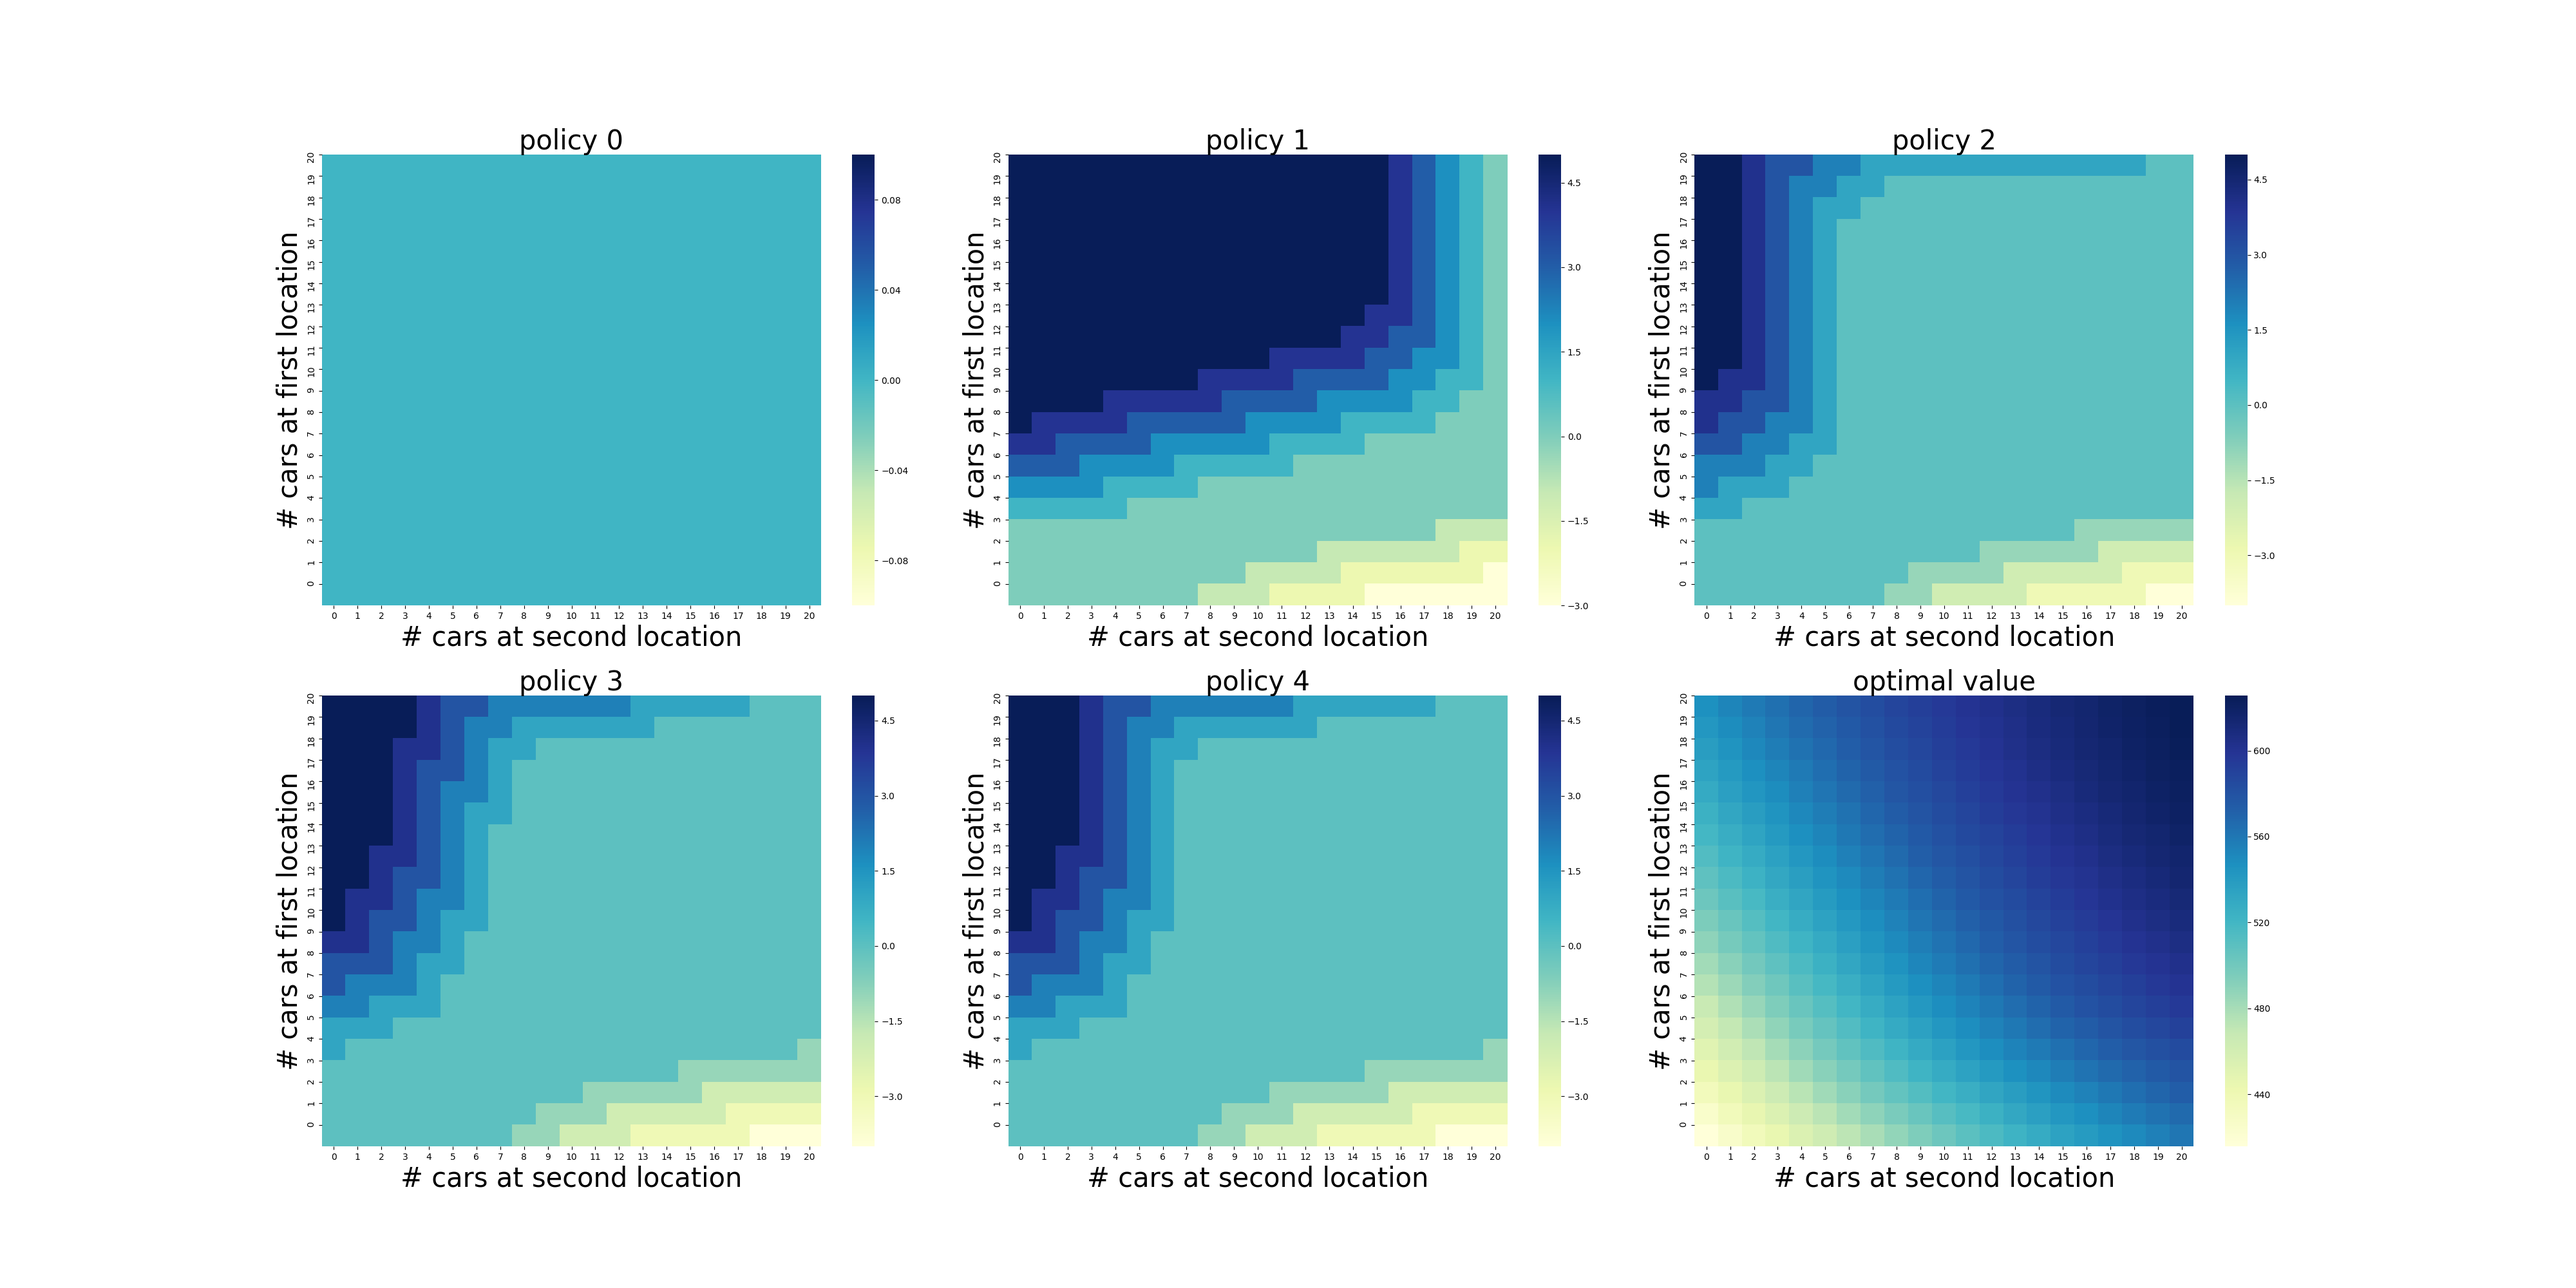
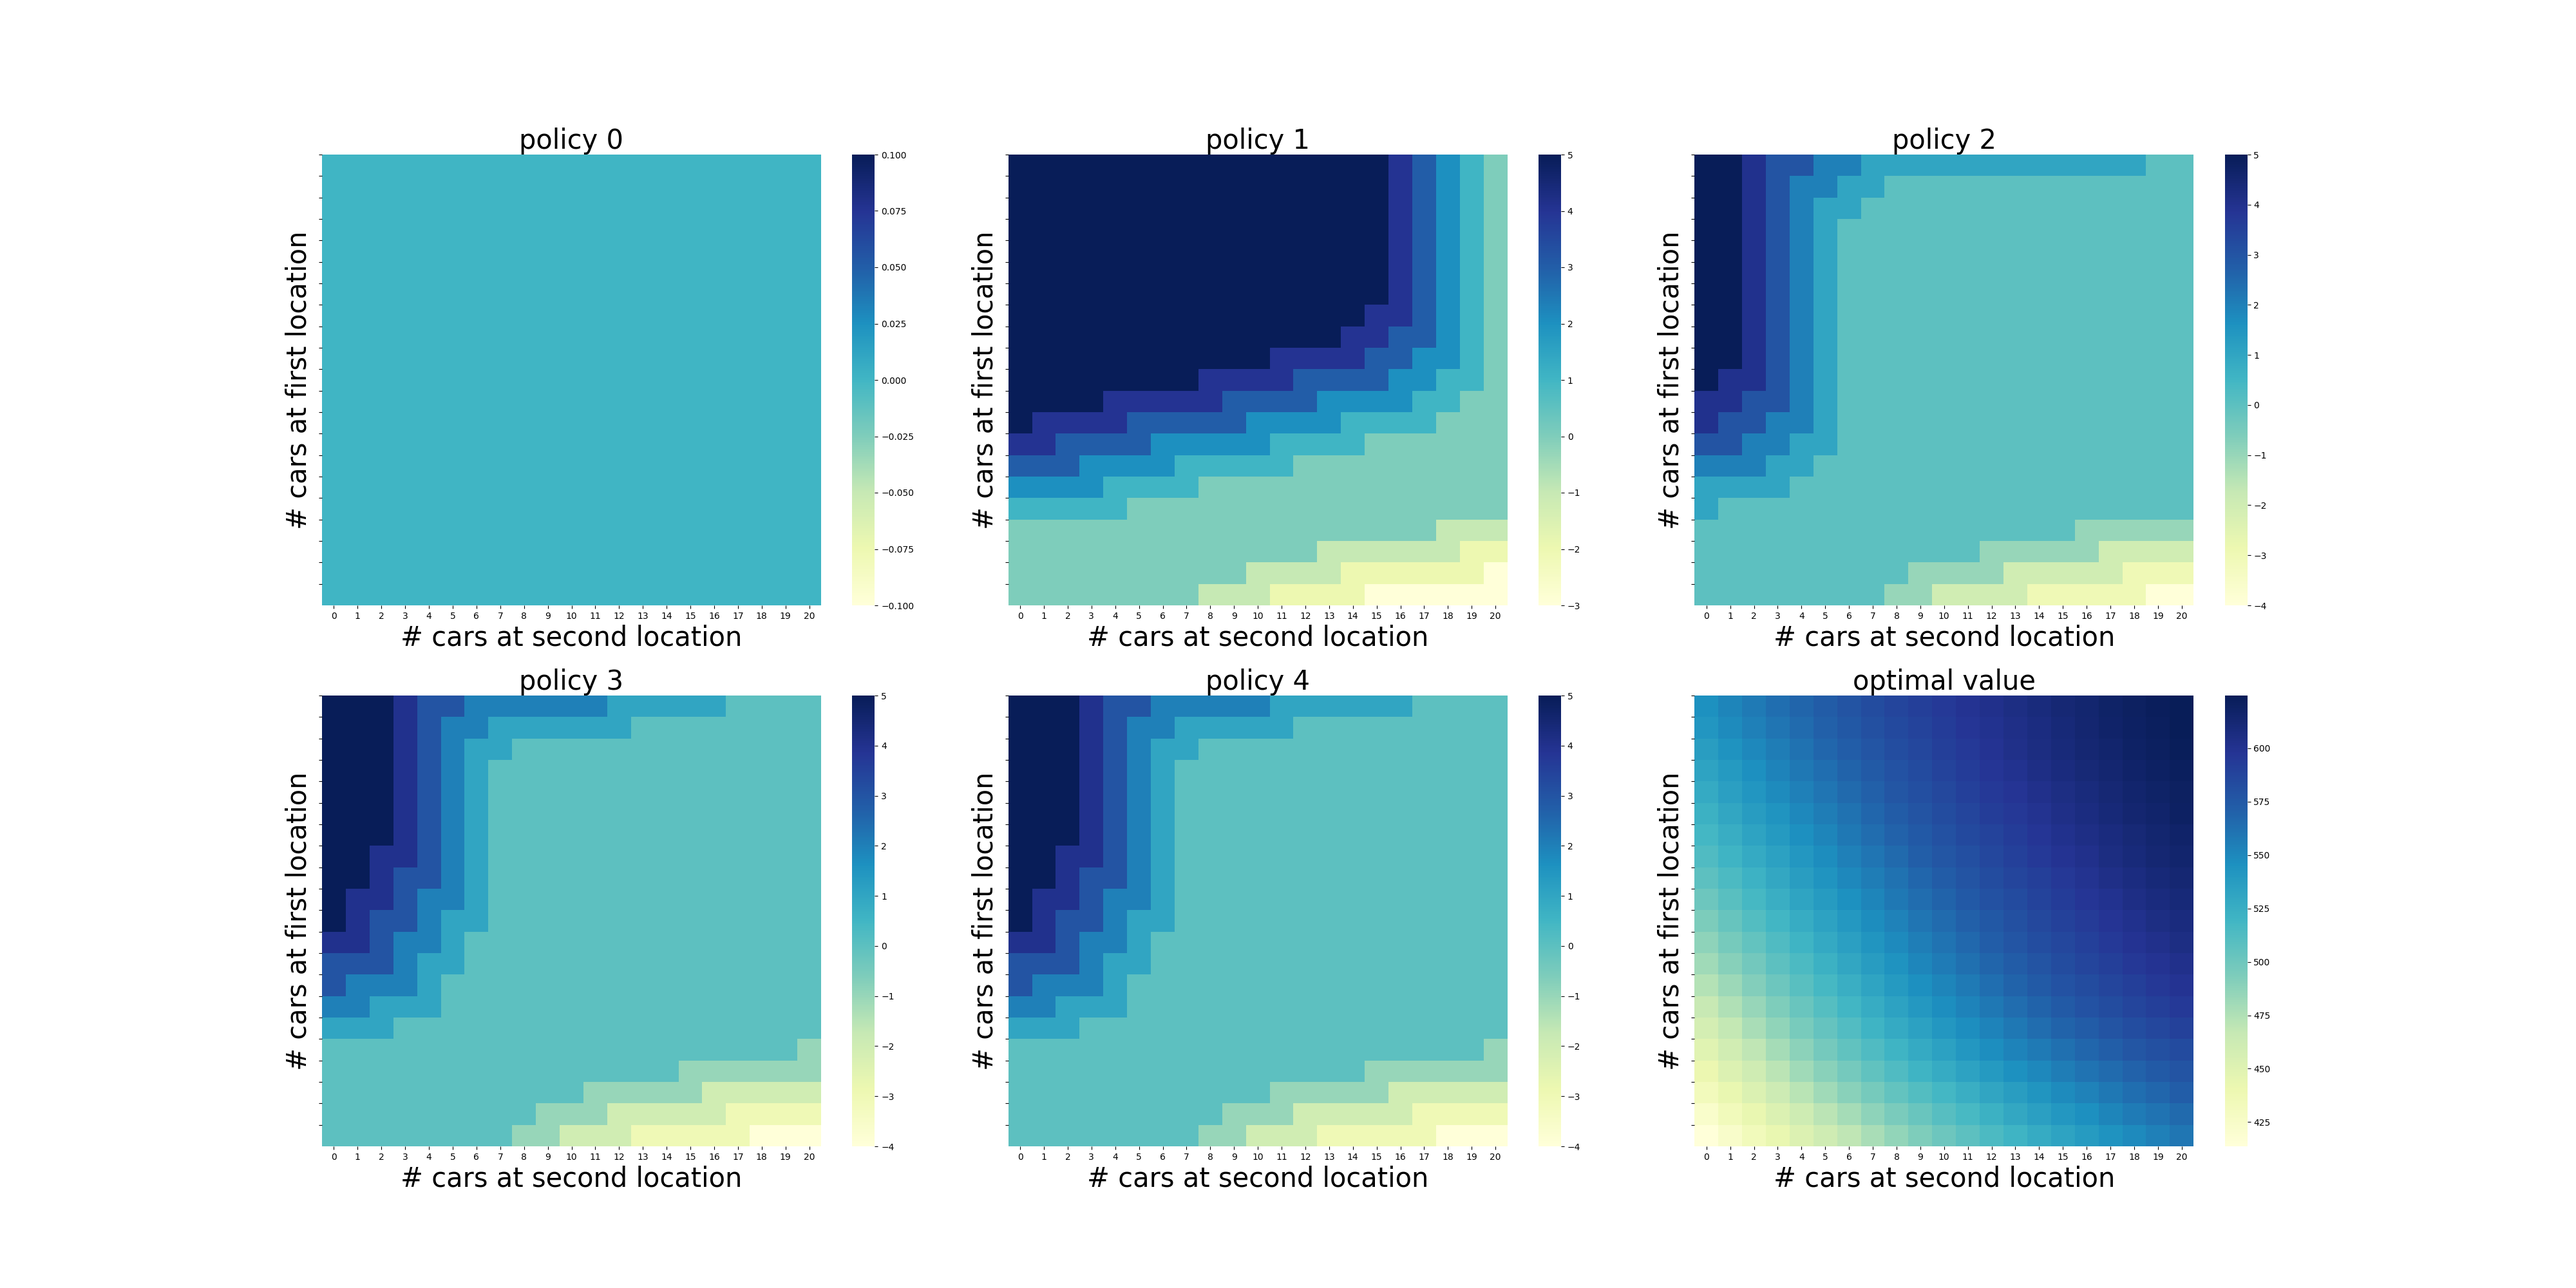
car rental complete

diff --git a/CH04/car_rental.py b/CH04/car_rental.py
@@ -29,7 +29,7 @@ class CarRental:
     def __init__(self, problem_modified=False, constant_return=False):
         """Initialize parameters"""
         # Problem settings
-        self.MAX_CARS = 10
+        self.MAX_CARS = 20
         self.MAX_MOVE_OF_CARS = 5
         self.RENTAL_REQUEST_FIRST = 3
         self.RENTAL_REQUEST_SECOND = 4
@@ -48,7 +48,7 @@ class CarRental:
         self.policy = np.zeros(self.value.shape, dtype=int)
         self.modified = problem_modified
         self.constant_return = constant_return
-        self.value_change_threshold = 1
+        self.value_change_threshold = 1e-4
 
     def expected_return(self, state, action, state_value):
         """Calculate expected return under specific state and action"""
@@ -70,7 +70,7 @@ class CarRental:
                 num_of_cars_first_after = num_of_cars_first - valid_rental_first
                 num_of_cars_second_after = num_of_cars_second - valid_rental_second
 
-                if self.constant_return:
+                if not self.constant_return:
                     for returned_cars_first in range(self.POISSON_UPPER_BOUND):
                         for returned_cars_second in range(self.POISSON_UPPER_BOUND):
                             prob_return = poisson_probability(returned_cars_first, self.RETURNS_FIRST) * \
@@ -102,7 +102,7 @@ class CarRental:
         while True:
             while True:
                 old_value = self.value.copy()
-                for i in range(self.MAX_CARS + 1):
+                for i in trange(self.MAX_CARS + 1):
                     for j in range(self.MAX_CARS + 1):
                         self.value[i, j] = self.expected_return([i, j], self.policy[i, j], self.value)
                 max_value_change = abs(old_value - self.value).max()
@@ -111,7 +111,7 @@ class CarRental:
                     break
 
             policy_stable = True
-            for i in range(self.MAX_CARS + 1):
+            for i in trange(self.MAX_CARS + 1):
                 for j in range(self.MAX_CARS + 1):
                     old_action = self.policy[i, j]
                     action_returns = []
@@ -150,11 +150,10 @@ class CarRental:
         fig.set_xlabel('# cars at second location', fontsize=30)
         fig.set_title('optimal value', fontsize=30)
 
-        if self.modified:
-            if self.constant_return:
-                plt.savefig('images/car_rental_value_constant_return_modified.png')
-            else:
-                plt.savefig('images/car_rental_value_modified.png')
+        if self.modified and self.constant_return:
+            plt.savefig('images/car_rental_value_constant_return_modified.png')
+        elif self.modified:
+            plt.savefig('images/car_rental_value_modified.png')
         elif self.constant_return:
             plt.savefig('images/car_rental_value_constant_return.png')
         else:
@@ -163,6 +162,6 @@ class CarRental:
 
 
 if __name__ == "__main__":
-    jack = CarRental(problem_modified=True, constant_return=True)
+    jack = CarRental(problem_modified=True, constant_return=False)
     jack.update_policy()
     jack.plot_policy()

diff --git a/Book Resources/Code by Shangtong Zhang/chapter04/car_rental.py b/Book Resources/Code by Shangtong Zhang/chapter04/car_rental.py
@@ -145,7 +145,7 @@ def figure_4_2(constant_returned_cars=True):
                     value[i, j] = new_state_value
             max_value_change = abs(old_value - value).max()
             print('max value change {}'.format(max_value_change))
-            if max_value_change < 1e-4:
+            if max_value_change < 1:
                 break
 
         # policy improvement
